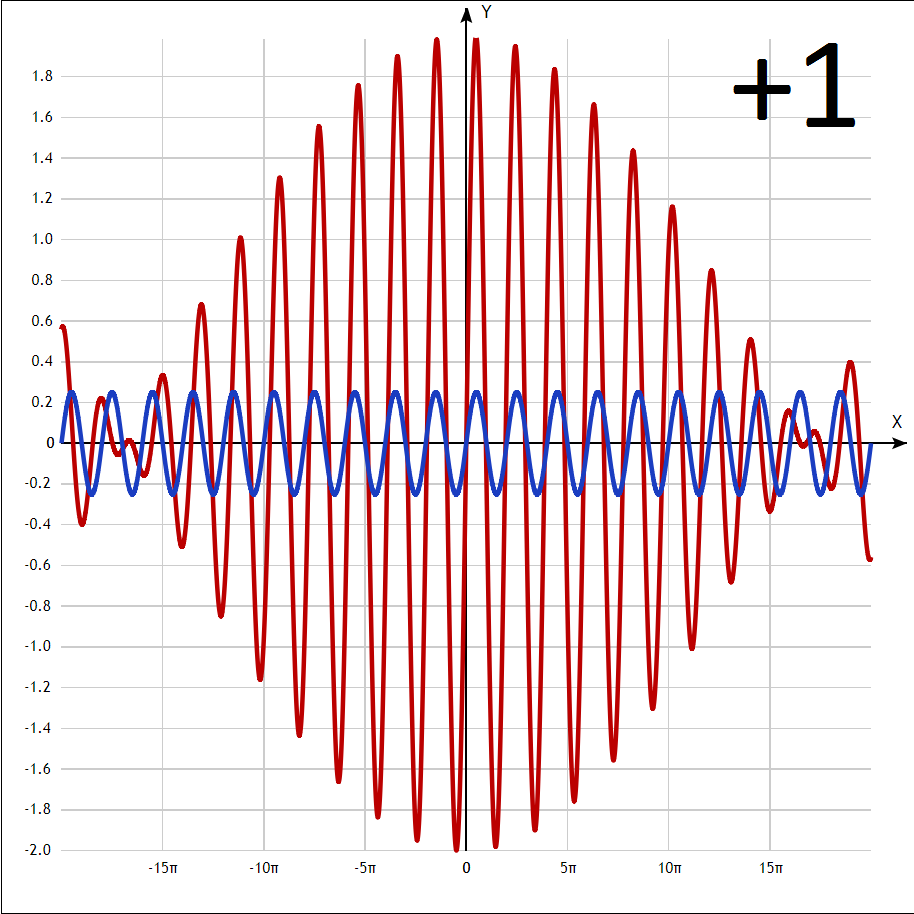
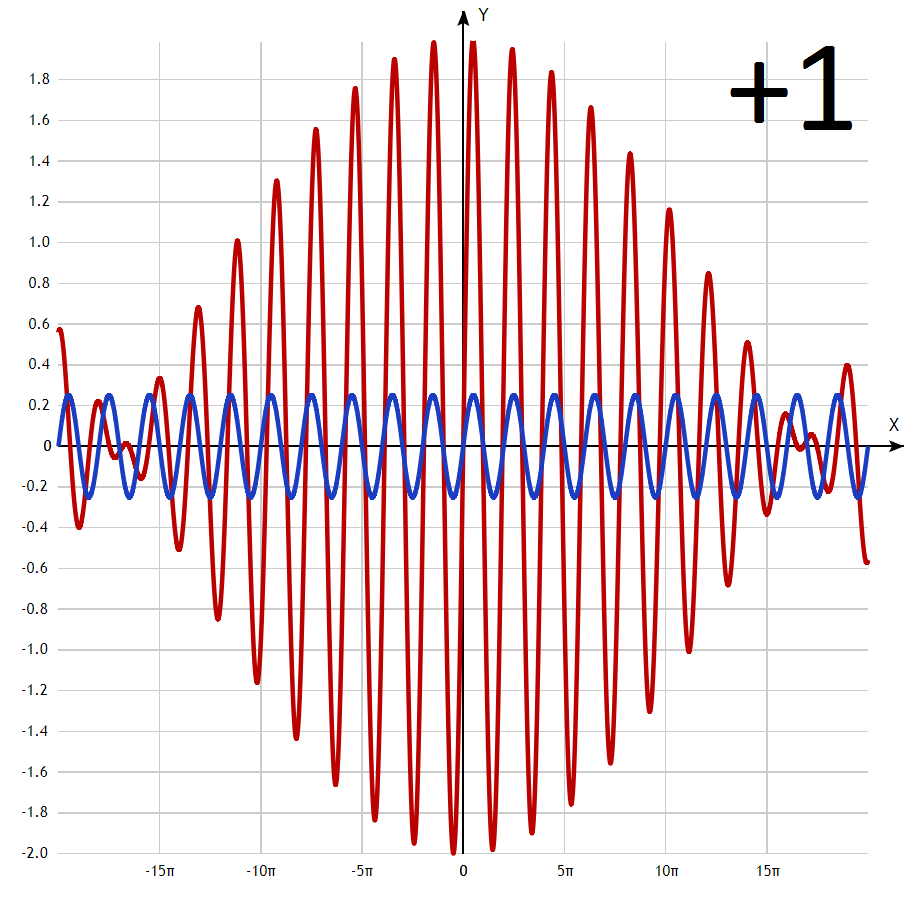
интервалы

diff --git a/ch-harmony.tex b/ch-harmony.tex
@@ -1,11 +1,117 @@
 \chapter{А так звучит красиво? Гармоничность}
 \label{ch:harmony}
 
-\section{Лады? Лады}
-\label{ch:harmony:lad}
 
 \section{Сколько вешать в полутонах? Интервалы}
 \label{ch:harmony:interval}
 
+\begin{Definition}[Интервал]
+    \emph{Интервал} --- это расстояние между \emph{двумя} звуками, выраженное в полутонах. 
+\end{Definition}
+
+Это определение для математиков. Для музыкантов же интервалы \emph{звучат}! Если два звука прозвучали одновременно, то интервал называется гармоническим, а если друг за другом --- мелодическим.
+
+\begin{Example}[Послушаем гармонические интервалы]
+    \label{ex:harmony:interval:string5and6}
+    Возьмите настроенную гитару. Поиграем на 5 и 6-й струне. Если гитара настроена страндартно, то 6-я струна на 5-м ладу прозвучит в унисон с открытой 5-й струной. Такое расстояние в 0 полутонов музыканты называют \emph{примой}. 
+    
+    Теперь расслабьтесь, успокойтесь, забудьте обо всех горестях и радостях. Сосредоточьтесь на своем дыхании. Существует только ваше дыхание. Абсолютный покой. 
+    
+    Не получается? Черт с ним!
+    
+    Зажимаем 6-ю струну на 5-м ладу и одновременно играем две струны 6-ю и 5-ю. Даем позвучать, прислушиваемся к ощущениям.
+    
+    И так далее, двигаясь по 6-й струне: 6-й лад, 7, 8, 9, 10, 11, 12, 13, 14, 15, 16, 17. Играем две струны, всякий раз прислушиваемся к ощущениям.
+\end{Example}
+
+Интервал, приятный на слух музыканты называют \emph{консонансом}, а неприятный --- \emph{диссонансом}. 
+
+Чтобы разобраться в том, почему звучание одного интервала нам нравится, а другого --- нет, визуализируем результат наложения двух звуков. Пусть функция $\sin(x)$ изображает основной тон исходного звука. Функция $\sin(x\cdot(\sqrt[12]{2})^n)$ будет изображать звук, который \emph{выше} исходного на $n$ \emph{полутонов}. Результату совместного звучания будет соответствовать их сумма\footnote{В Интернете масса сайтов, позволяющих построить график функции. Более того, просто вбейте в гугл \texttt{sin(x)+sin(x*(2\^{}(1/12)))} и дивитесь чудесам Технологии!}:
+\begin{equation}
+    \label{eq:harmony:interval:sin}
+    \sin(x) + \sin(x\cdot(\sqrt[12]{2})^n).
+\end{equation}
+
+Результаты построения графиков совместного звучания (построен красным цветом) на фоне исходного звука (синий цвет) для интервалов от $n=1$ до $n=11$ полутонов (т.е. в рамках октавы) приведены в таблицах \ref{t:harmony:interval:disso-1-2-10-11}, \ref{t:harmony:interval:conso-3-4-8-9}, \ref{t:harmony:interval:conso-5-7}, \ref{t:harmony:interval:disso-6}.
+
+
+Итак, диссонансы приведены в таблице \ref{t:harmony:interval:disso-1-2-10-11}. Вам не должны были понравиться интервалы на 6,7,15,16 ладах 6-й струны, если вы проходили пример \ref{ex:harmony:interval:string5and6}. Только не говорите, что понравились! Пора сходить к доктору!!! Не затягивайте.
+
+\begin{table}[!ht]
+    \caption{Диссонансы в графиках функции \ref{eq:harmony:interval:sin}}
+    \label{t:harmony:interval:disso-1-2-10-11}
+    \centering
+    \begin{tabular}{c|c}
+        \hline\hline
+        1 полутон, $n=1$        & 2 полутона, $n=2$ \\
+        малая секунда           & большая секунда \\
+        \includegraphics[width=0.45\textwidth]{fig/intervals/i01}
+            & \includegraphics[width=0.45\textwidth]{fig/intervals/i02} \\
+        \hline\hline
+        10 полутонов, $n=10$    & 11 полутонов, $n=11$ \\
+        малая септима           & большая септима \\
+        \includegraphics[width=0.45\textwidth]{fig/intervals/i10}
+            & \includegraphics[width=0.45\textwidth]{fig/intervals/i11} \\
+        \hline\hline
+    \end{tabular}
+\end{table}
+
+Проанализируйте приведенные графики и попробуйте самостоятельно сделать выводы об особенностях консонансов и диссонансов. Стоит отметить, что принято также разделять совершенные и несовершенные консонансы. 
+
+\begin{table}[!ht]
+    \caption{Несовершенные консонансы в графиках функции \ref{eq:harmony:interval:sin}}
+    \label{t:harmony:interval:conso-3-4-8-9}
+    \centering
+    \begin{tabular}{c|c}
+        \hline\hline
+        3 полутона, $n=3$   & 4 полутона, $n=4$ \\
+        малая терция        & большая терция \\
+        \includegraphics[width=0.45\textwidth]{fig/intervals/i03}
+            & \includegraphics[width=0.45\textwidth]{fig/intervals/i04} \\
+        \hline\hline
+        8 полутонов, $n=8$  & 9 полутонов, $n=9$ \\
+        малая секста        & большая секста \\
+        \includegraphics[width=0.45\textwidth]{fig/intervals/i08}
+            & \includegraphics[width=0.45\textwidth]{fig/intervals/i09} \\
+        \hline\hline
+        
+    \end{tabular}
+\end{table}
+
+\begin{table}[!ht]
+    \caption{Совершенные консонансы в графиках функции \ref{eq:harmony:interval:sin}}
+    \label{t:harmony:interval:conso-5-7}
+    \centering
+    \begin{tabular}{c|c}
+        \hline\hline
+        5 полутонов, $n=5$  & 7 полутонов, $n=7$ \\
+        чистая кварта       & чистая квинта \\
+        \includegraphics[width=0.45\textwidth]{fig/intervals/i05} 
+            & \includegraphics[width=0.45\textwidth]{fig/intervals/i07} \\
+        \hline\hline
+    \end{tabular}
+\end{table}
+
+\begin{table}[!ht]
+    \caption{Диссонанс в графике функции \ref{eq:harmony:interval:sin}}
+    \label{t:harmony:interval:disso-6}
+    \centering
+    \begin{tabular}{c}
+        \hline\hline
+        6 полутонов, $n=6$ \\
+        \includegraphics[width=0.45\textwidth]{fig/intervals/i06} \\
+        увеличенная кварта,\\
+        она же --- уменьшенная квинта,\\
+        он же --- тритон\\
+        \hline\hline
+    \end{tabular}
+\end{table}
+
+
+\section{Лады? Лады}
+\label{ch:harmony:lad}
+
+
 \section{Чем больше, тем лучше? Аккорды}
 \label{ch:harmony:chords}
+

diff --git a/main.tex b/main.tex
@@ -5,6 +5,7 @@
 \usepackage{indentfirst}
 \usepackage[colorlinks=true]{hyperref}
 \usepackage{graphicx}
+\usepackage{amsmath}
 \usepackage{guitar}
 \usepackage{musixtex}
 
